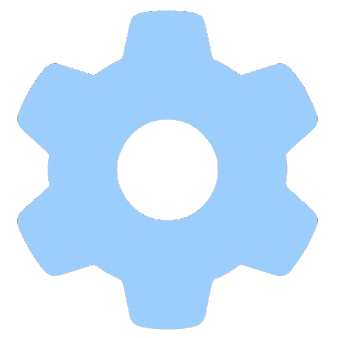
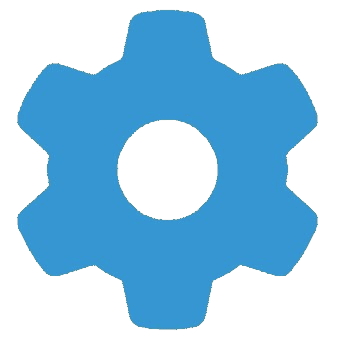
WQEO<EQEMPQEWEW

diff --git a/style.css b/style.css
@@ -5,16 +5,17 @@
 }
 
 :root{
-    --darkbg: rgb(23, 30, 33);
+    /*--darkbg: rgb(23, 30, 33);*/
+    --darkbg: rgb(21,21,21);
     --lightbg: #fff;
     --lightbgtext: #000;
     --lightbgmenu: #f7f4e4;
     --darkbgmenu: #000;
     --orangetextcolor: #ff8424;
     --yellowtextcolor:#f0db4f;
-    --redtextcolor: tomato;
+    --redtextcolor: #f92e46;
     --whitetextcolor: #fff;
-    --bluetextcolor: #9bcdfd;
+    --bluetextcolor: #3596d1;
     --darklinkcolor: #5ff5ff;
     --lightlinkcolortimedotcom: #e90606;
     --lightlinkcolor: #ff8424;
@@ -203,7 +204,7 @@ background-color: var(--darkbg);
     padding-bottom: 2.8px;
     padding-top: 2.8px;
     background-clip: content-box;
-    background-color: tomato;
+    background-color: var(--redtextcolor);
     display: inline-block;
 }
 
@@ -238,13 +239,13 @@ background-color: var(--darkbg);
     user-select: none;
     font-weight: 500;
     background-clip: content-box;
-    background-color: tomato;
+    background-color: var(--redtextcolor);
     border: none;
 }
 
 .ok:hover{
     cursor: pointer;
-    background-color: red;
+    background-color: mediumpurple;
     transition: ease-in-out 300ms;
 }
 
@@ -305,9 +306,10 @@ button i{
 }
 
 #submit:hover{
-    background-color: red;
+    background-color: #17a67e;
     transition: ease-in-out 300ms;
 }
+
 
 input{
     width: 200px;
@@ -496,7 +498,7 @@ ul {
 
 .content ul li {
     width: 240px;
-    margin: 0 5px 5px 0; /* Equal left and right margin, and bottom margin */
+    margin: 0 5px 5px 0;
     display: inline-block;
     position: relative;
     font-size: 1.5em;
@@ -600,16 +602,13 @@ color: var(--redtextcolor);
 }
 
 @media all and (max-width: 768px) {
-    .content ul {
+    .content ul{
         display: flex;
         flex-direction: column;
         align-items: center;
     }
     .content ul li{
         margin-bottom: 30px;
-    }
-    .content ul li.collapse{
-        margin-bottom: 6.8px;
     }
     .maintext{
         margin-left: 25px;

diff --git a/searchresults.js b/searchresults.js
@@ -26,8 +26,6 @@ document.addEventListener("DOMContentLoaded", function() {
         topTitle.textContent = `Search results for "${searchTerm}"`
         const filteredResults = pages.filter(page => page.title.toLowerCase().includes(searchTerm));
         displaySearchResults(filteredResults);
-    } else {
-        displayNoResults();
     }
 
     function displaySearchResults(results) {

diff --git a/script.js b/script.js
@@ -46,6 +46,11 @@ searchForm.addEventListener("submit", function(event) {
    const searchTerm = searchInput.value.trim().toLowerCase(); // Lowercase the search term
    event.preventDefault(); 
   
+   if (searchTerm === '') {
+    // If the search term is empty, do nothing
+    return;
+  }
+
    const results = [];
    const titles = pages.map(page => page.title);
   
